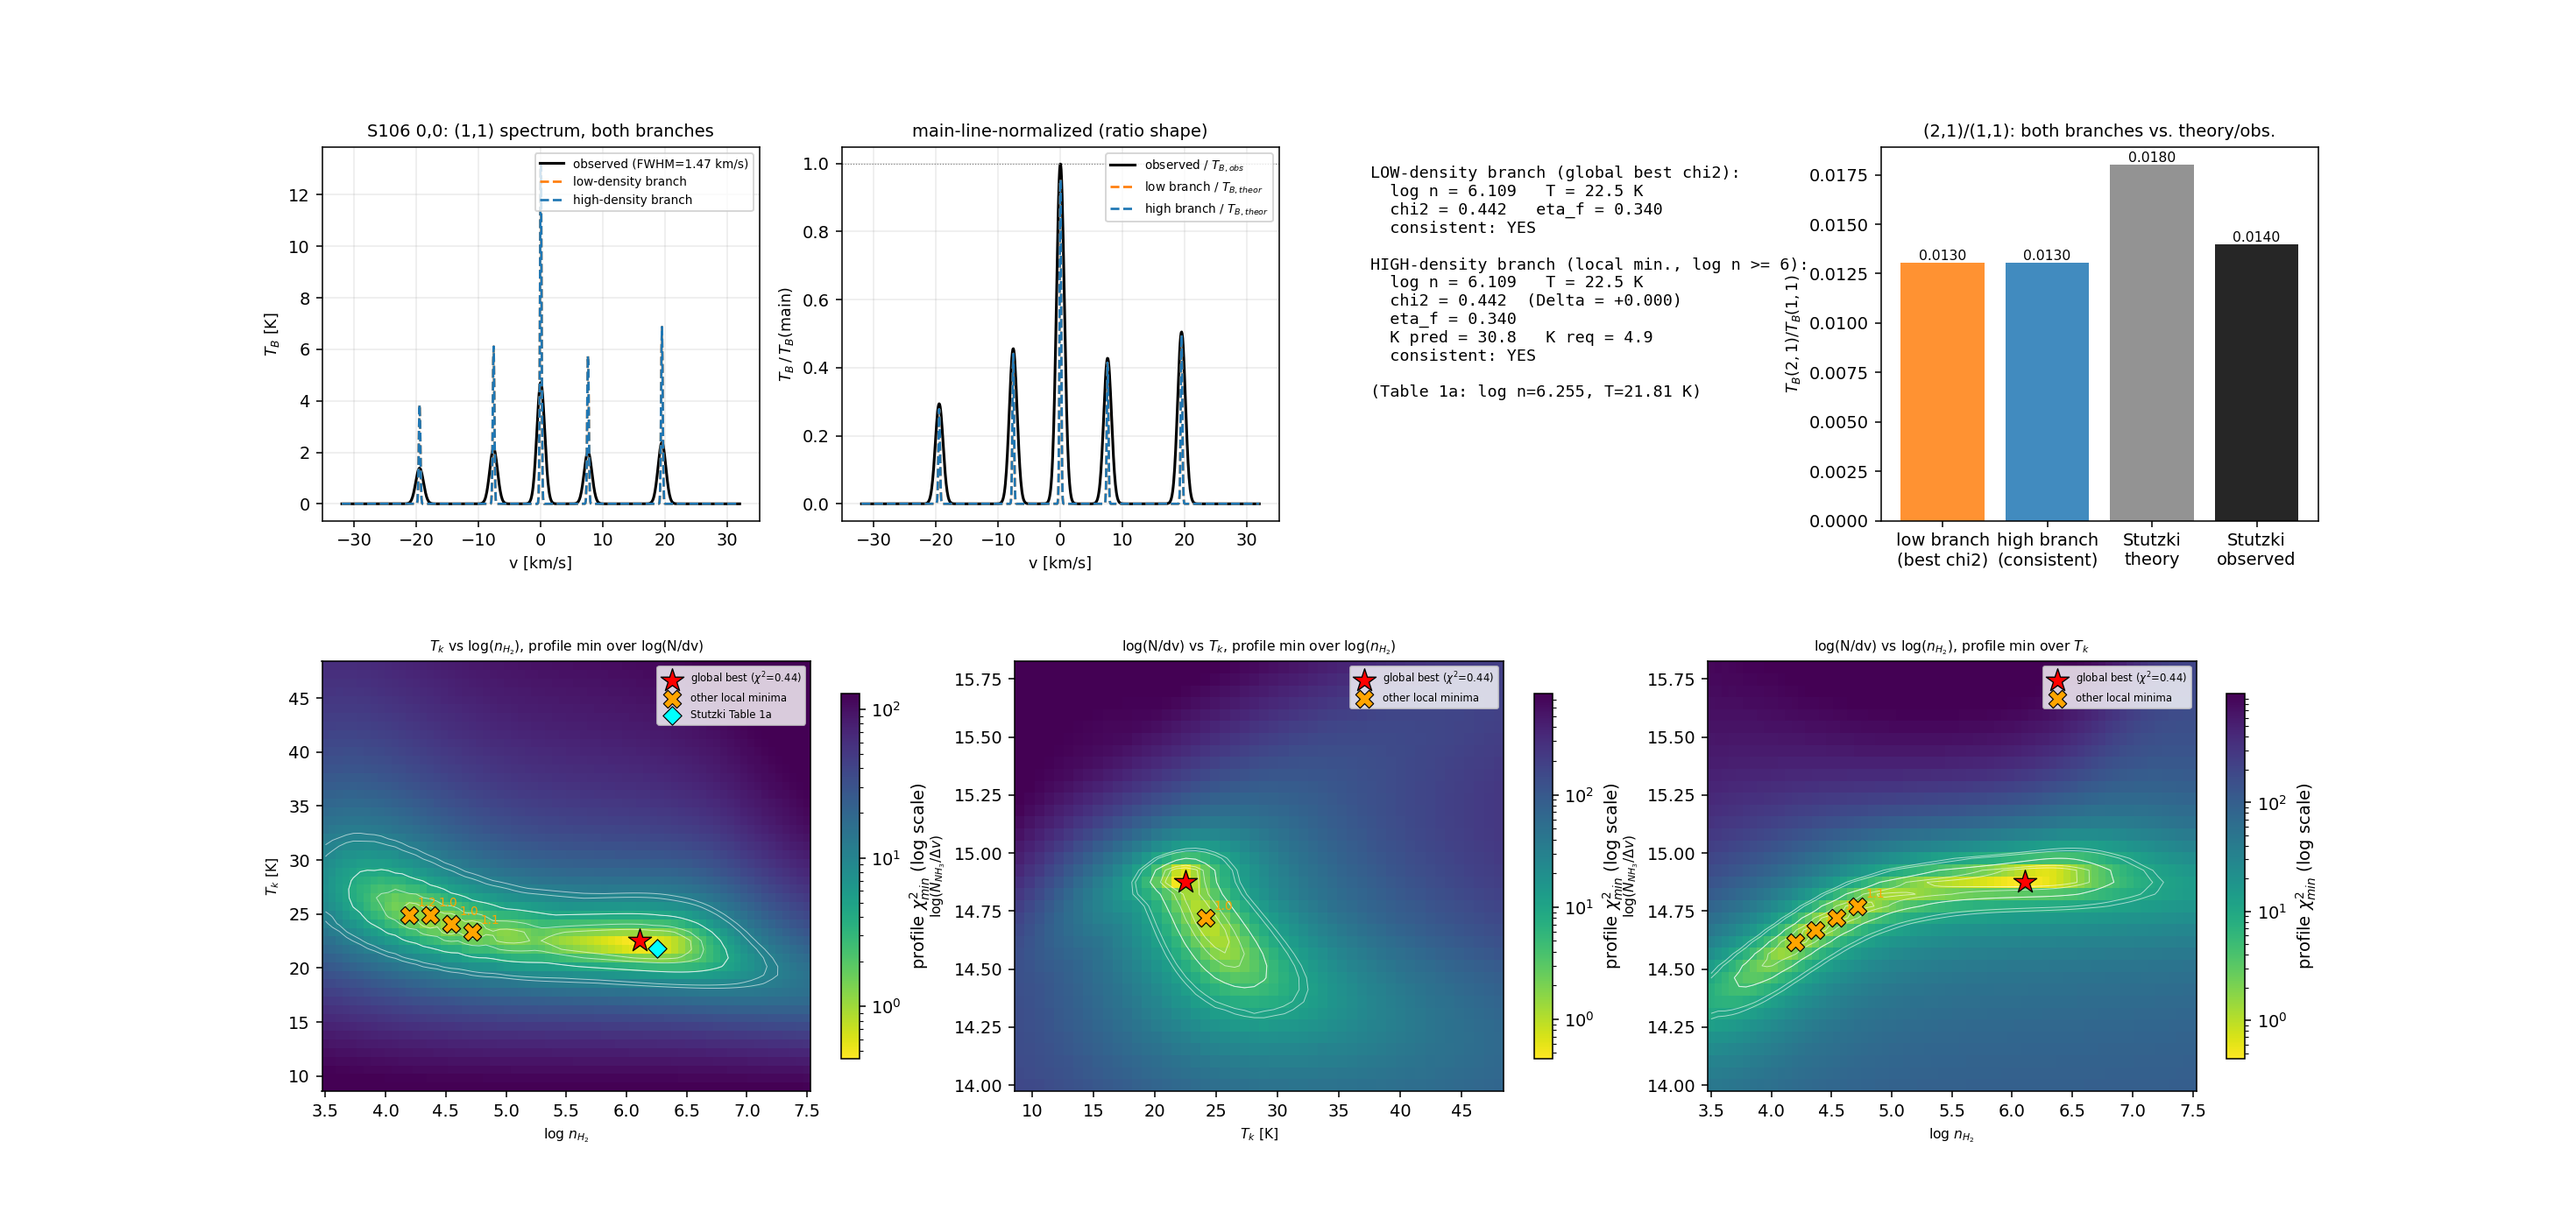
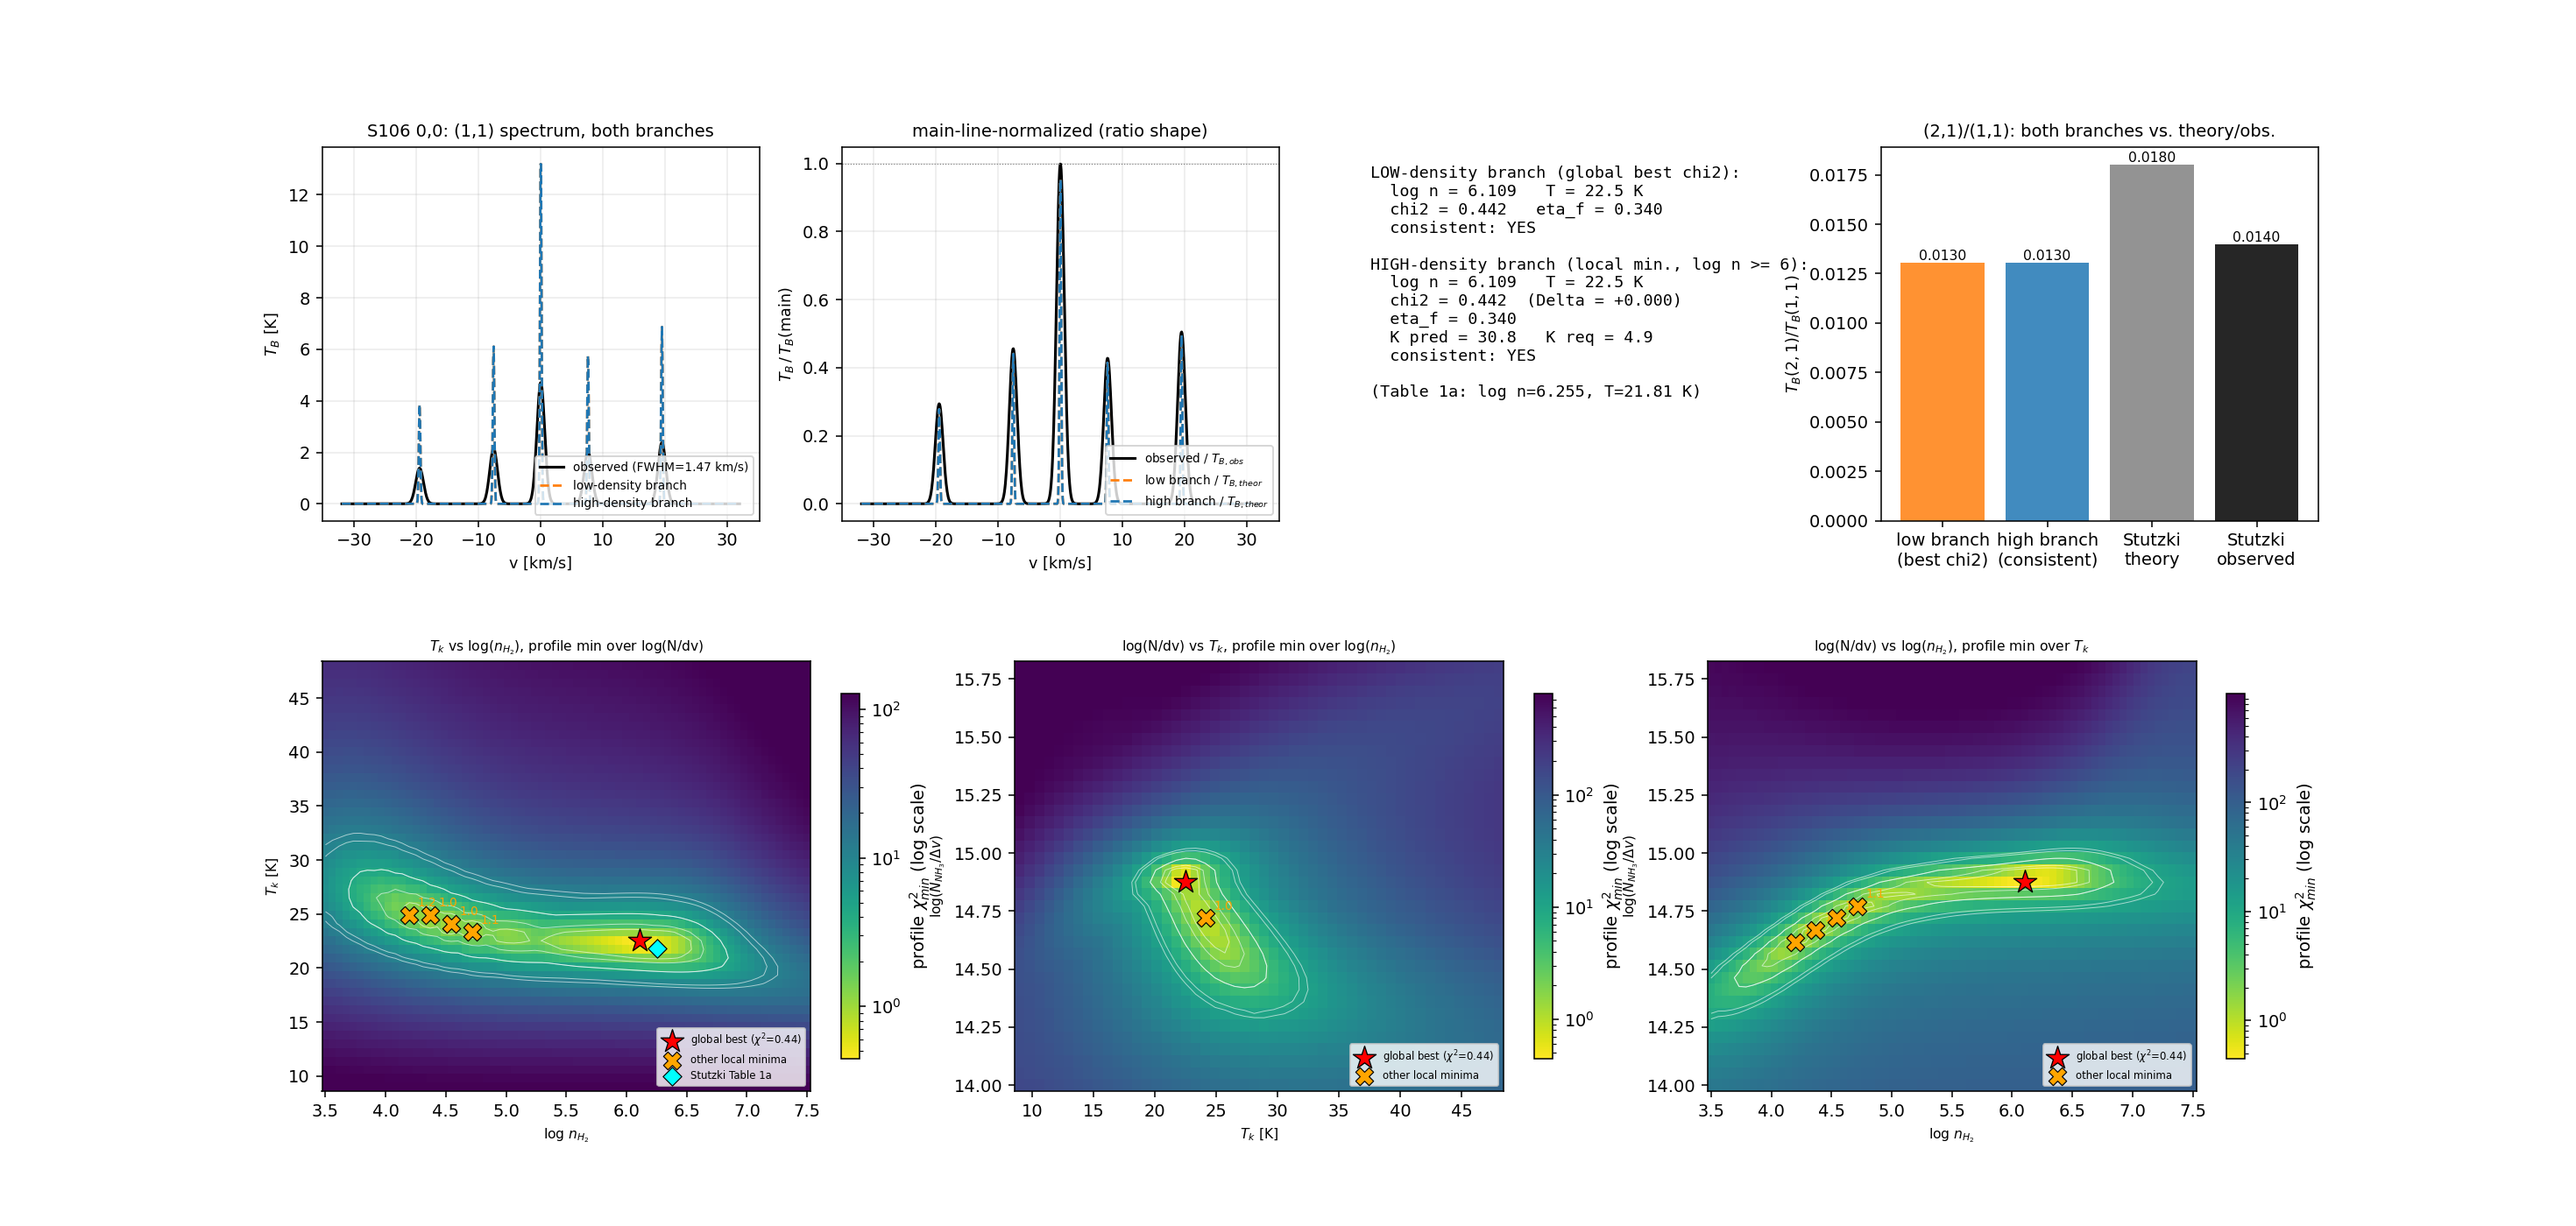
Retrieval figures: legends in the lower right

diff --git a/production/tgs/modelling/analysis/retrieval/magritte_stutzki1984.py b/production/tgs/modelling/analysis/retrieval/magritte_stutzki1984.py
@@ -117,7 +117,7 @@ def chi2_slice_plot(ax, X, Y, Z3d, axis_i, xlabel, ylabel, best_xy, chi2_best,
     ax.set_ylabel(ylabel, fontsize=8)
     ax.set_title(title, fontsize=8)
     plt.colorbar(pcm, ax=ax, shrink=0.85, label=r'profile $\chi^2_{min}$ (log scale)')
-    ax.legend(fontsize=6, loc='best')
+    ax.legend(fontsize=6, loc='lower right')
 
 
 def main():
@@ -197,7 +197,7 @@ def main():
         ax_spec.set_xlabel('v [km/s]', fontsize=9)
         ax_spec.set_ylabel(r'$T_B$ [K]', fontsize=9)
         ax_spec.set_title(f'{region} {pos}: (1,1) spectrum', fontsize=10)
-        ax_spec.legend(fontsize=7)
+        ax_spec.legend(fontsize=7, loc='lower right')
         ax_spec.grid(alpha=0.25)
 
         # Same two spectra, each divided by its OWN main-line peak (T_B_obs for
@@ -213,7 +213,7 @@ def main():
         ax_spec_n.set_xlabel('v [km/s]', fontsize=9)
         ax_spec_n.set_ylabel(r'$T_B\,/\,T_B(\mathrm{main})$', fontsize=9)
         ax_spec_n.set_title('main-line-normalized (ratio shape)', fontsize=10)
-        ax_spec_n.legend(fontsize=7)
+        ax_spec_n.legend(fontsize=7, loc='lower right')
         ax_spec_n.grid(alpha=0.25)
 
         ax_txt = fig.add_subplot(gs[0, 6:9])

diff --git a/production/tgs/modelling/analysis/retrieval/escape1d_w33.py b/production/tgs/modelling/analysis/retrieval/escape1d_w33.py
@@ -128,7 +128,7 @@ def main():
         ax_spec.set_xlabel('v [km/s]', fontsize=9)
         ax_spec.set_ylabel(r'$T_B$ [K]', fontsize=9)
         ax_spec.set_title(f'{source}: (1,1) spectrum [escape-prob. model, {a.rates}]', fontsize=10)
-        ax_spec.legend(fontsize=7)
+        ax_spec.legend(fontsize=7, loc='lower right')
         ax_spec.grid(alpha=0.25)
 
         obs_spec_norm = gaussian_spectrum(v, [x / T_B_obs for x in obs_amps], dv_obs)
@@ -140,7 +140,7 @@ def main():
         ax_spec_n.set_xlabel('v [km/s]', fontsize=9)
         ax_spec_n.set_ylabel(r'$T_B\,/\,T_B(\mathrm{main})$', fontsize=9)
         ax_spec_n.set_title('main-line-normalized (ratio shape)', fontsize=10)
-        ax_spec_n.legend(fontsize=7)
+        ax_spec_n.legend(fontsize=7, loc='lower right')
         ax_spec_n.grid(alpha=0.25)
 
         ax_txt = fig.add_subplot(gs[0, 6:9])

diff --git a/production/tgs/modelling/analysis/retrieval/escape1d_stutzki1984.py b/production/tgs/modelling/analysis/retrieval/escape1d_stutzki1984.py
@@ -145,7 +145,7 @@ def main():
         ax_spec.set_xlabel('v [km/s]', fontsize=9)
         ax_spec.set_ylabel(r'$T_B$ [K]', fontsize=9)
         ax_spec.set_title(f'{region} {pos}: (1,1) spectrum [escape-prob. model]', fontsize=10)
-        ax_spec.legend(fontsize=7)
+        ax_spec.legend(fontsize=7, loc='lower right')
         ax_spec.grid(alpha=0.25)
 
         obs_spec_norm = gaussian_spectrum(v, [x / T_B_obs for x in obs_amps], dv_obs)
@@ -157,7 +157,7 @@ def main():
         ax_spec_n.set_xlabel('v [km/s]', fontsize=9)
         ax_spec_n.set_ylabel(r'$T_B\,/\,T_B(\mathrm{main})$', fontsize=9)
         ax_spec_n.set_title('main-line-normalized (ratio shape)', fontsize=10)
-        ax_spec_n.legend(fontsize=7)
+        ax_spec_n.legend(fontsize=7, loc='lower right')
         ax_spec_n.grid(alpha=0.25)
 
         ax_txt = fig.add_subplot(gs[0, 6:9])

diff --git a/production/tgs/modelling/analysis/retrieval/magritte_w33.py b/production/tgs/modelling/analysis/retrieval/magritte_w33.py
@@ -118,7 +118,7 @@ def main():
         ax_spec.set_xlabel('v [km/s]', fontsize=9)
         ax_spec.set_ylabel(r'$T_B$ [K]', fontsize=9)
         ax_spec.set_title(f'{source}: (1,1) spectrum', fontsize=10)
-        ax_spec.legend(fontsize=7)
+        ax_spec.legend(fontsize=7, loc='lower right')
         ax_spec.grid(alpha=0.25)
 
         obs_spec_norm = gaussian_spectrum(v, [x / T_B_obs for x in obs_amps], dv_obs)
@@ -130,7 +130,7 @@ def main():
         ax_spec_n.set_xlabel('v [km/s]', fontsize=9)
         ax_spec_n.set_ylabel(r'$T_B\,/\,T_B(\mathrm{main})$', fontsize=9)
         ax_spec_n.set_title('main-line-normalized (ratio shape)', fontsize=10)
-        ax_spec_n.legend(fontsize=7)
+        ax_spec_n.legend(fontsize=7, loc='lower right')
         ax_spec_n.grid(alpha=0.25)
 
         ax_txt = fig.add_subplot(gs[0, 6:9])

diff --git a/production/tgs/modelling/analysis/retrieval/s106_branch_comparison.py b/production/tgs/modelling/analysis/retrieval/s106_branch_comparison.py
@@ -125,7 +125,7 @@ def main():
     ax_spec.set_xlabel('v [km/s]', fontsize=9)
     ax_spec.set_ylabel(r'$T_B$ [K]', fontsize=9)
     ax_spec.set_title(f'{REGION} {POS}: (1,1) spectrum, both branches', fontsize=10)
-    ax_spec.legend(fontsize=7)
+    ax_spec.legend(fontsize=7, loc='lower right')
     ax_spec.grid(alpha=0.25)
 
     obs_spec_norm = gaussian_spectrum(v, [x / T_B_obs for x in obs_amps], dv_obs)
@@ -140,7 +140,7 @@ def main():
     ax_spec_n.set_xlabel('v [km/s]', fontsize=9)
     ax_spec_n.set_ylabel(r'$T_B\,/\,T_B(\mathrm{main})$', fontsize=9)
     ax_spec_n.set_title('main-line-normalized (ratio shape)', fontsize=10)
-    ax_spec_n.legend(fontsize=7)
+    ax_spec_n.legend(fontsize=7, loc='lower right')
     ax_spec_n.grid(alpha=0.25)
 
     ax_txt = fig.add_subplot(gs[0, 6:9])
